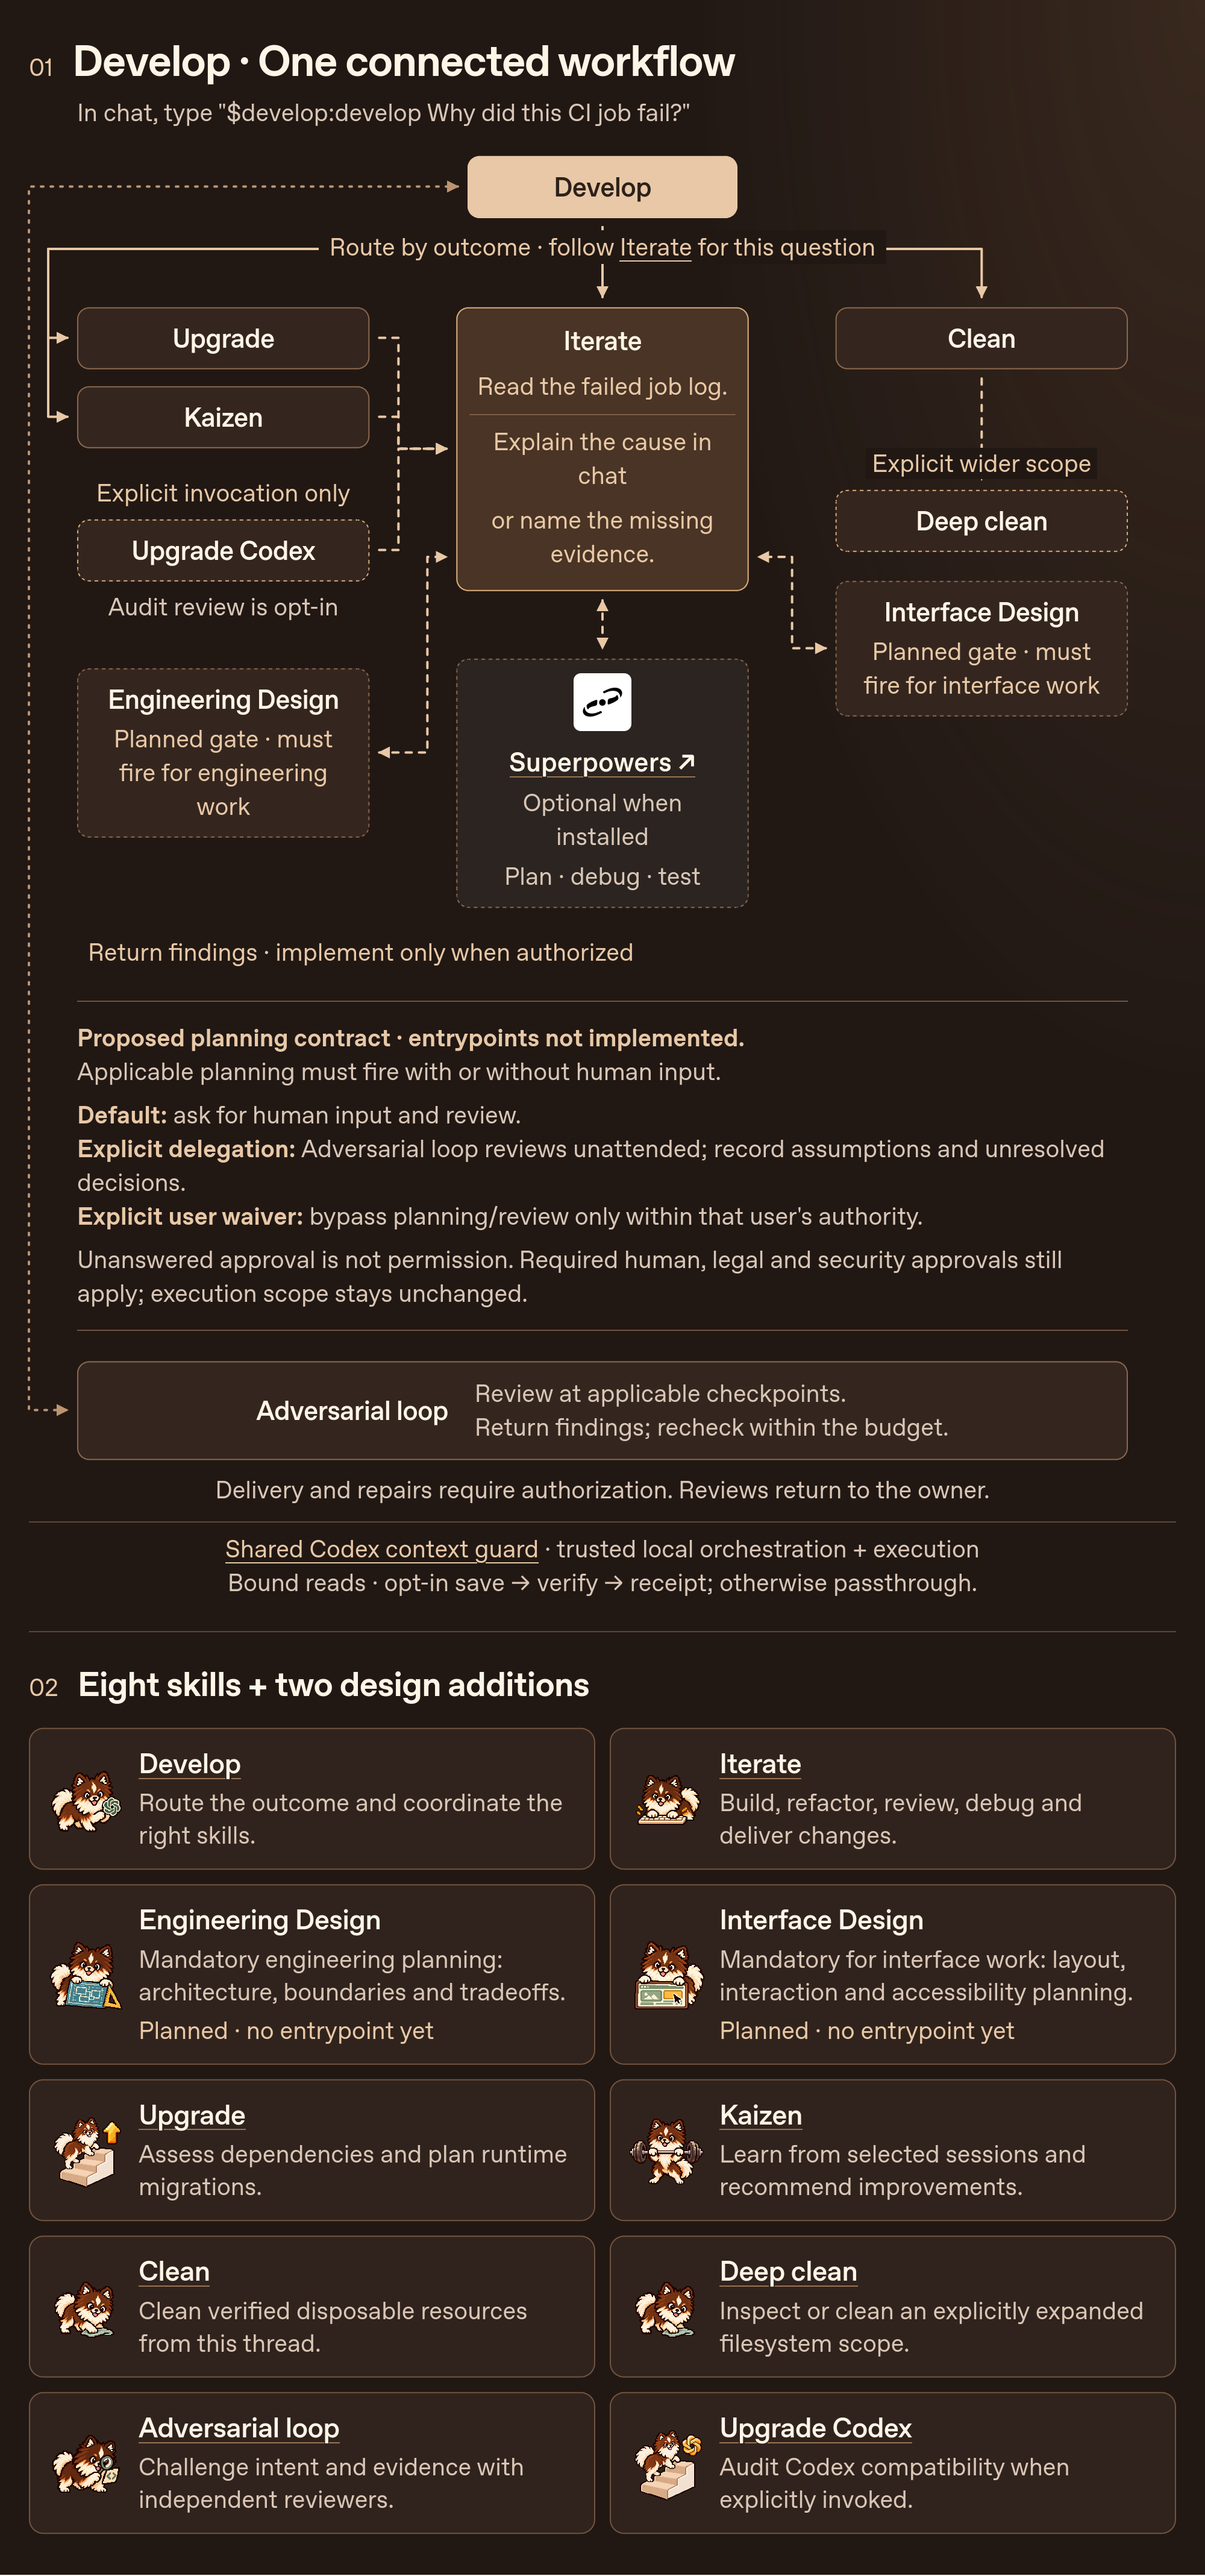
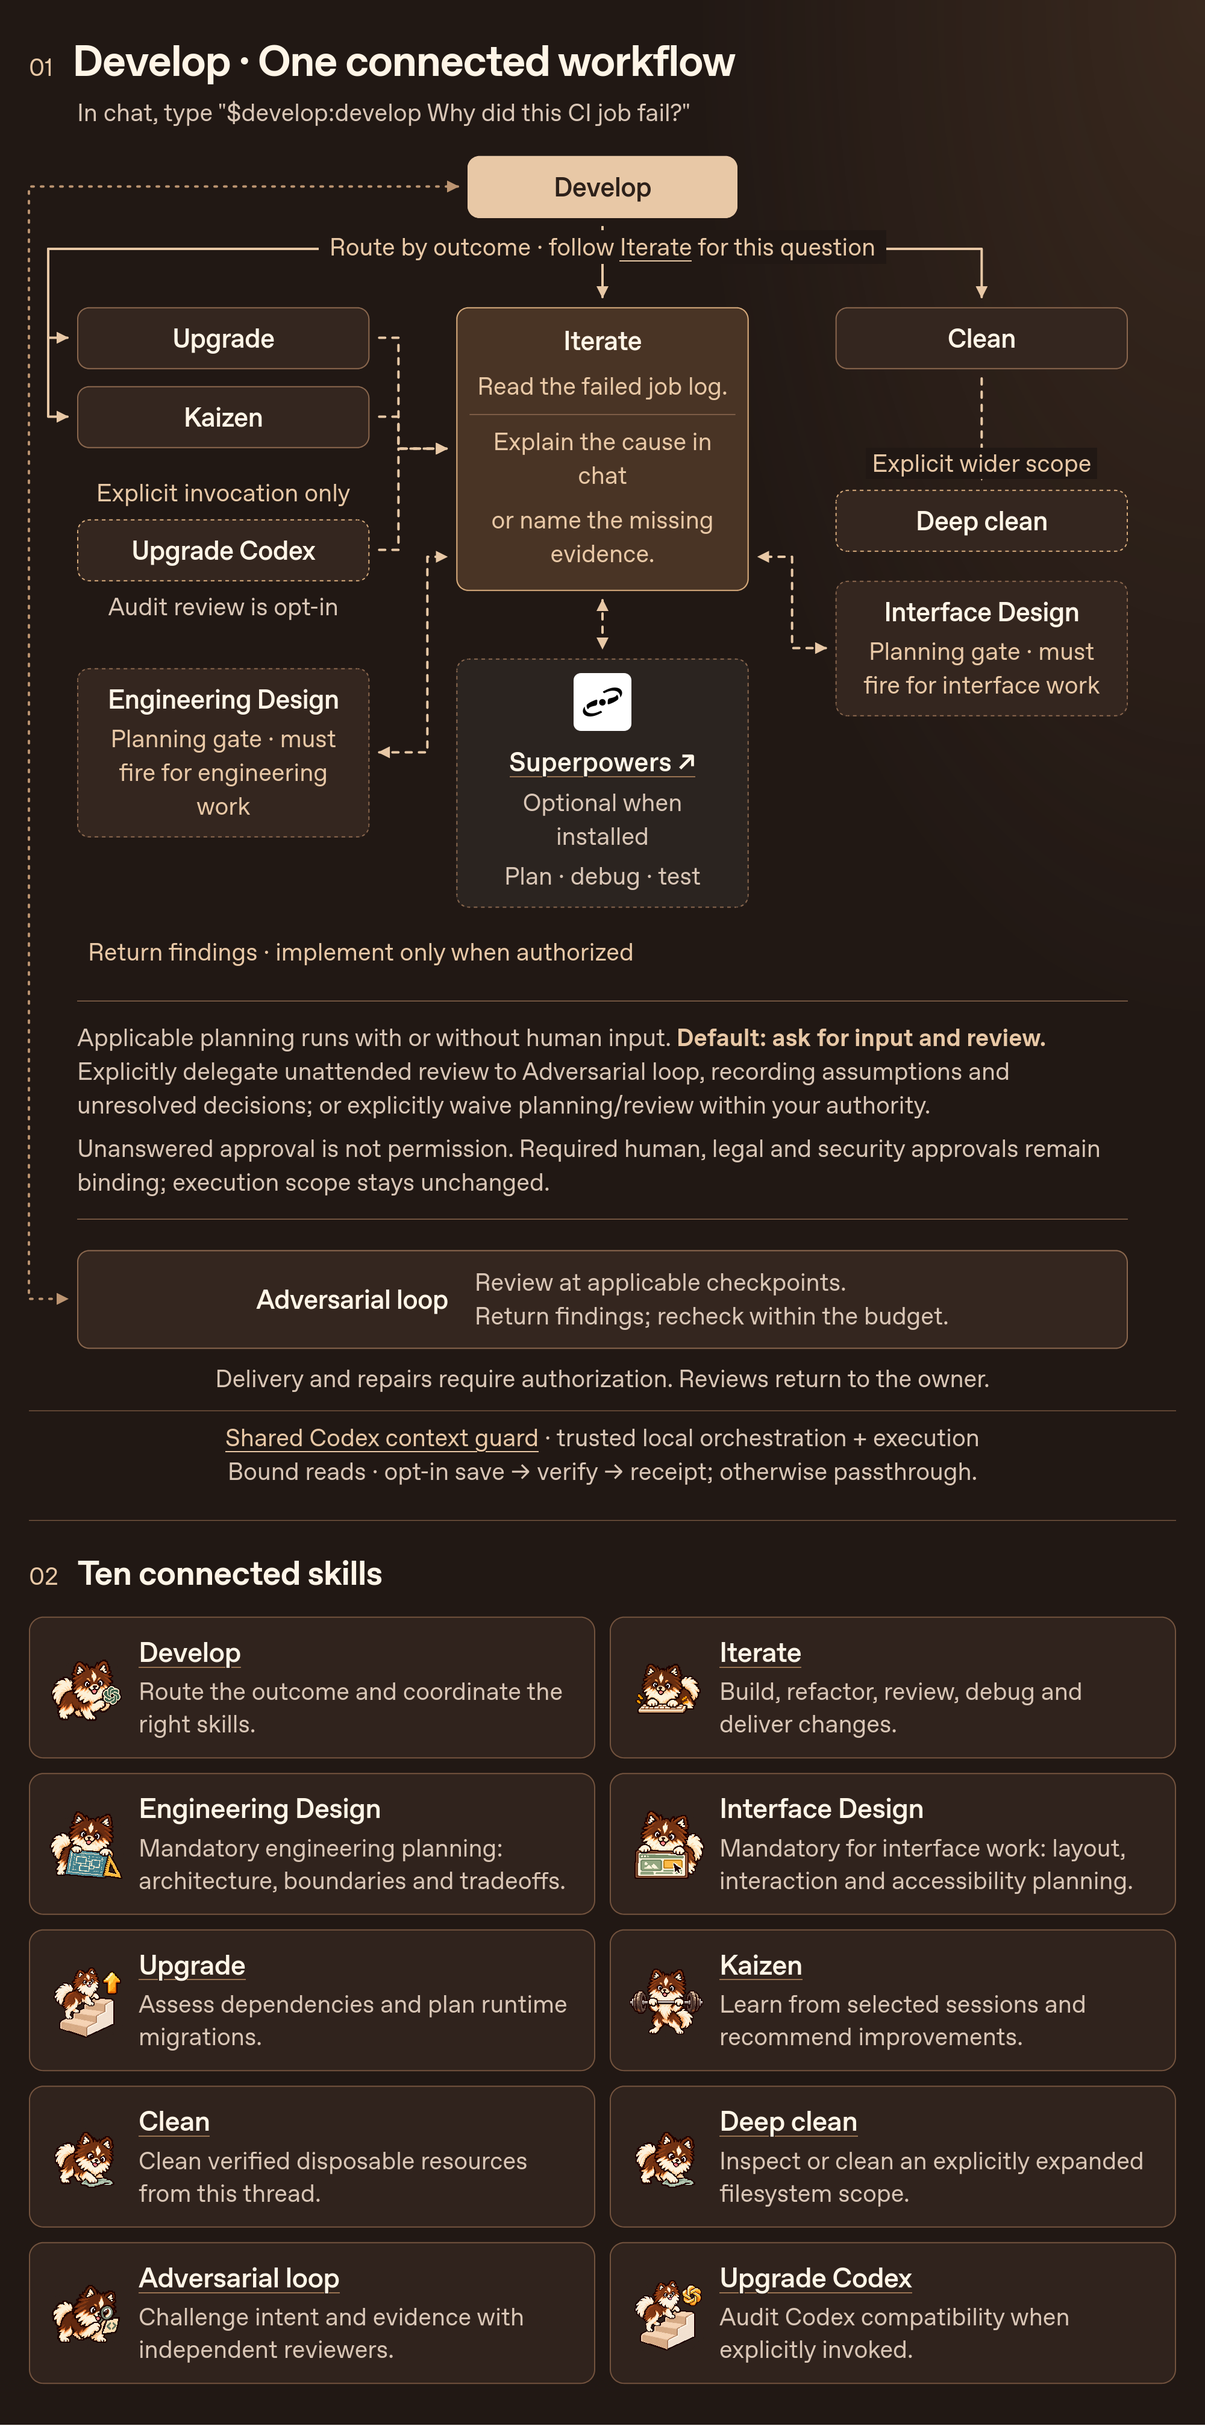
docs(develop): present concise ten-skill workflow for review

diff --git a/plugins/develop/docs/develop-overview.html b/plugins/develop/docs/develop-overview.html
@@ -126,7 +126,7 @@ h2 { font-size: 28px; letter-spacing: -.6px; font-weight: 650; }
   <div class="section-heading"><span class="section-number">01</span><h1 id="workflow-title">Develop · One connected workflow</h1></div>
   <p class="intro">In chat, type "$develop:develop Why did this CI job fail?"</p>
   <div class="workflow-map" role="group" aria-labelledby="workflow-title" aria-describedby="workflow-description">
-    <p id="workflow-description" class="sr-only">Develop sends the CI question to Iterate. Iterate examines the failed job log and tells the user what caused the failure or what evidence is missing. Users can also invoke a skill directly. Develop routes other outcomes to Upgrade, Kaizen, Clean or Adversarial loop. Upgrade Codex is available only by explicit invocation. Upgrade, Kaizen and Upgrade Codex may return findings; they hand changes to Iterate only when implementation is authorized. Iterate performs the requested work and can loop through validation, authorized delivery, monitoring and authorized repair. Clean expands to Deep clean only for explicitly widened scope. Adversarial loop reviews applicable checkpoints and returns findings to the owner within a bounded review budget. An audit-only Upgrade Codex review is opt-in. Iterate may use compatible installed Superpowers guidance for planning, debugging and testing, then resumes with its existing scope and gates. Engineering Design and Interface Design appear in the workflow and skill directory as planned design additions. Neither design addition has a runnable entrypoint yet. In the proposed behavior, Engineering Design must fire for engineering work and Interface Design must fire for interface work, with or without human input. Default to requesting human input and review. Only explicit user waiver within their authority bypasses planning or review. Explicit delegation to Adversarial loop permits unattended planning review with assumptions and unresolved decisions recorded. Unanswered approval is not permission; required human, legal and security approvals and execution scope remain binding.</p>
+    <p id="workflow-description" class="sr-only">Develop sends the CI question to Iterate. Iterate examines the failed job log and tells the user what caused the failure or what evidence is missing. Users can also invoke a skill directly. Develop routes other outcomes to Upgrade, Kaizen, Clean or Adversarial loop. Upgrade Codex is available only by explicit invocation. Upgrade, Kaizen and Upgrade Codex may return findings; they hand changes to Iterate only when implementation is authorized. Iterate performs the requested work and can loop through validation, authorized delivery, monitoring and authorized repair. Clean expands to Deep clean only for explicitly widened scope. Adversarial loop reviews applicable checkpoints and returns findings to the owner within a bounded review budget. An audit-only Upgrade Codex review is opt-in. Iterate may use compatible installed Superpowers guidance for planning, debugging and testing, then resumes with its existing scope and gates. Engineering Design must fire for engineering work and Interface Design must fire for interface work, with or without human input. Default to requesting human input and review. Only explicit user waiver within their authority bypasses planning or review. Explicit delegation to Adversarial loop permits unattended planning review with assumptions and unresolved decisions recorded. Unanswered approval is not permission; required human, legal and security approvals and execution scope remain binding.</p>
     <svg class="connectors" aria-hidden="true"><defs><marker id="arrow" viewBox="0 0 10 10" refX="9" refY="5" markerWidth="5" markerHeight="5" orient="auto-start-reverse"><path d="M0 0L10 5L0 10Z" fill="#e8c8a6"/></marker><marker id="feedback-arrow" viewBox="0 0 10 10" refX="9" refY="5" markerWidth="5" markerHeight="5" orient="auto-start-reverse"><path d="M0 0L10 5L0 10Z" fill="#bc9471"/></marker></defs><g id="edge-layer"></g></svg>
     <div class="flow-node router" id="node-develop" data-skill="develop"><h3>Develop</h3></div>
     <p class="route-caption">Route by outcome · follow <a href="#node-iterate">Iterate</a> for this question</p>
@@ -139,7 +139,7 @@ h2 { font-size: 28px; letter-spacing: -.6px; font-weight: 650; }
           <div class="flow-node explicit" id="node-upgrade-codex" data-skill="upgrade-codex"><h3>Upgrade Codex</h3></div>
           <p class="audit-note">Audit review is opt-in</p>
         </div>
-        <div class="flow-node design-node" id="node-engineering-design" data-planned="engineering-design"><h3>Engineering Design</h3><p>Planned gate · must fire for engineering work</p></div>
+        <div class="flow-node design-node" id="node-engineering-design" data-design="engineering-design"><h3>Engineering Design</h3><p>Planning gate · must fire for engineering work</p></div>
       </div>
       <div class="implementation-lane">
         <div class="flow-node delivery" id="node-iterate" data-skill="iterate">
@@ -157,14 +157,13 @@ h2 { font-size: 28px; letter-spacing: -.6px; font-weight: 650; }
           <p class="branch-label">Explicit wider scope</p>
           <div class="flow-node explicit" id="node-deep-clean" data-skill="deep-clean"><h3>Deep clean</h3></div>
         </div>
-        <div class="flow-node design-node" id="node-interface-design" data-planned="interface-design"><h3>Interface Design</h3><p>Planned gate · must fire for interface work</p></div>
+        <div class="flow-node design-node" id="node-interface-design" data-design="interface-design"><h3>Interface Design</h3><p>Planning gate · must fire for interface work</p></div>
       </div>
     </div>
     <p class="handoff" id="handoff-label">Return findings · implement only when authorized</p>
-    <div class="planning-policy" aria-label="Proposed planning contract">
-      <p><strong>Proposed planning contract · entrypoints not implemented.</strong><br>Applicable planning must fire with or without human input.</p>
-      <p><strong>Default:</strong> ask for human input and review.<br><strong>Explicit delegation:</strong> Adversarial loop reviews unattended; record assumptions and unresolved decisions.<br><strong>Explicit user waiver:</strong> bypass planning/review only within that user's authority.</p>
-      <p>Unanswered approval is not permission. Required human, legal and security approvals still apply; execution scope stays unchanged.</p>
+    <div class="planning-policy" aria-label="Planning and review">
+      <p>Applicable planning runs with or without human input. <strong>Default: ask for input and review.</strong> Explicitly delegate unattended review to Adversarial loop, recording assumptions and unresolved decisions; or explicitly waive planning/review within your authority.</p>
+      <p>Unanswered approval is not permission. Required human, legal and security approvals remain binding; execution scope stays unchanged.</p>
     </div>
     <div class="flow-node reviews" id="node-adversarial-loop" data-skill="adversarial-loop"><h3>Adversarial loop</h3><p>Review at applicable checkpoints.<br>Return findings; recheck within the budget.</p></div>
     <p class="review-return">Delivery and repairs require authorization. Reviews return to the owner.</p>
@@ -172,12 +171,12 @@ h2 { font-size: 28px; letter-spacing: -.6px; font-weight: 650; }
   <p class="context-guard"><a href="context-guard.md">Shared Codex context guard</a> · trusted local orchestration + execution<br>Bound reads · opt-in save → verify → receipt; otherwise passthrough.</p>
 </section>
 <section id="skills" aria-labelledby="skills-title">
-  <div class="section-heading"><span class="section-number">02</span><h2 id="skills-title">Eight skills + two design additions</h2></div>
+  <div class="section-heading"><span class="section-number">02</span><h2 id="skills-title">Ten connected skills</h2></div>
   <div class="skill-grid">
     <article class="skill-card" data-skill="develop"><img src="../skills/develop/assets/icon.png" width="64" height="64" alt="Develop Roux logo"><div><h3><a href="../skills/develop/SKILL.md">Develop</a></h3><p>Route the outcome and coordinate the right skills.</p></div></article>
     <article class="skill-card" data-skill="iterate"><img src="../skills/iterate/assets/icon.png" width="64" height="64" alt="Iterate Roux logo"><div><h3><a href="../skills/iterate/SKILL.md">Iterate</a></h3><p>Build, refactor, review, debug and deliver changes.</p></div></article>
-    <article class="skill-card" data-planned="engineering-design"><img src="assets/engineering-design-concept.png" width="64" height="64" alt="Engineering Design Roux with blueprint and drafting triangle"><div><h3>Engineering Design</h3><p>Mandatory engineering planning: architecture, boundaries and tradeoffs.</p><p class="status">Planned · no entrypoint yet</p></div></article>
-    <article class="skill-card" data-planned="interface-design"><img src="assets/interface-design-concept.png" width="64" height="64" alt="Interface Design Roux with layout and pointer"><div><h3>Interface Design</h3><p>Mandatory for interface work: layout, interaction and accessibility planning.</p><p class="status">Planned · no entrypoint yet</p></div></article>
+    <article class="skill-card" data-design="engineering-design"><img src="assets/engineering-design-concept.png" width="64" height="64" alt="Engineering Design Roux with blueprint and drafting triangle"><div><h3>Engineering Design</h3><p>Mandatory engineering planning: architecture, boundaries and tradeoffs.</p></div></article>
+    <article class="skill-card" data-design="interface-design"><img src="assets/interface-design-concept.png" width="64" height="64" alt="Interface Design Roux with layout and pointer"><div><h3>Interface Design</h3><p>Mandatory for interface work: layout, interaction and accessibility planning.</p></div></article>
     <article class="skill-card" data-skill="upgrade"><img src="../skills/upgrade/assets/icon.png" width="64" height="64" alt="Upgrade Roux logo"><div><h3><a href="../skills/upgrade/SKILL.md">Upgrade</a></h3><p>Assess dependencies and plan runtime migrations.</p></div></article>
     <article class="skill-card" data-skill="kaizen"><img src="../skills/kaizen/assets/icon.png" width="64" height="64" alt="Kaizen Roux logo"><div><h3><a href="../skills/kaizen/SKILL.md">Kaizen</a></h3><p>Learn from selected sessions and recommend improvements.</p></div></article>
     <article class="skill-card" data-skill="clean"><img src="../skills/clean/assets/icon.png" width="64" height="64" alt="Clean Roux logo"><div><h3><a href="../skills/clean/SKILL.md">Clean</a></h3><p>Clean verified disposable resources from this thread.</p></div></article>

diff --git a/plugins/develop/README.md b/plugins/develop/README.md
@@ -1,6 +1,6 @@
 # Develop
 
-Eight portable skills for development, review and maintenance. [Install in Codex](INSTALL.md), then invoke `$develop:develop` with your outcome, or call a skill directly.
+Ten skills for development, planning, review and maintenance. [Install in Codex](INSTALL.md), then invoke `$develop:develop` with your outcome, or call a skill directly.
 
 Supply your development standards in the prompt, an attached `AGENTS.md` or a named connector source. Develop applies them within the selected scope and existing authority, using a shared [standards, presentation and unattended-continuation contract](skills/develop/references/contract.md). Reports use concise prose, tables or supported visuals according to the task; unattended work retains its budget and pending human decisions across handoffs.
 
@@ -17,8 +17,6 @@ The separate [staged-file size checker](skills/iterate/references/staged-file-si
 
 [![A user asks in chat why a CI job failed. Develop routes the question to Iterate, which reads the failed job log and replies with the cause or the missing evidence. The map also shows the other skills, the shared context guard, and Engineering Design and Interface Design linked to Iterate and included in the skill list.](docs/develop-overview.png)](docs/develop-overview.png)
 
-The diagram includes eight available skills and two planned additions with no runnable entrypoints yet. The proposed Engineering Design gate must fire for engineering work; Interface Design must fire for interface work. Applicable planning runs with or without human input, defaulting to asking for human input and review.
-
-An explicit user waiver may bypass planning or review within that user's authority. Explicit delegation to Adversarial loop allows unattended planning review with assumptions and unresolved decisions recorded. User absence alone never skips planning/review, and unanswered approval is not permission. Required human, legal and security approvals remain binding; delegation does not expand execution scope. This diagram documents intended behavior only; existing runtime policies are unchanged.
+Engineering Design plans engineering work; Interface Design plans interface work. Applicable planning runs with or without human input, asking for input and review by default. Explicitly delegate unattended review to Adversarial loop with recorded assumptions and unresolved decisions, or explicitly waive planning/review within your authority. Unanswered approval is not permission; required human, legal and security approvals and execution scope remain binding.
 
 [Full-size image](docs/develop-overview.png) · [Responsive HTML source](docs/develop-overview.html) · [Superpowers Codex source](https://github.com/openai/plugins/tree/main/plugins/superpowers) · [Maintainer instructions](AGENTS.md) · [Apache-2.0](LICENSE)
